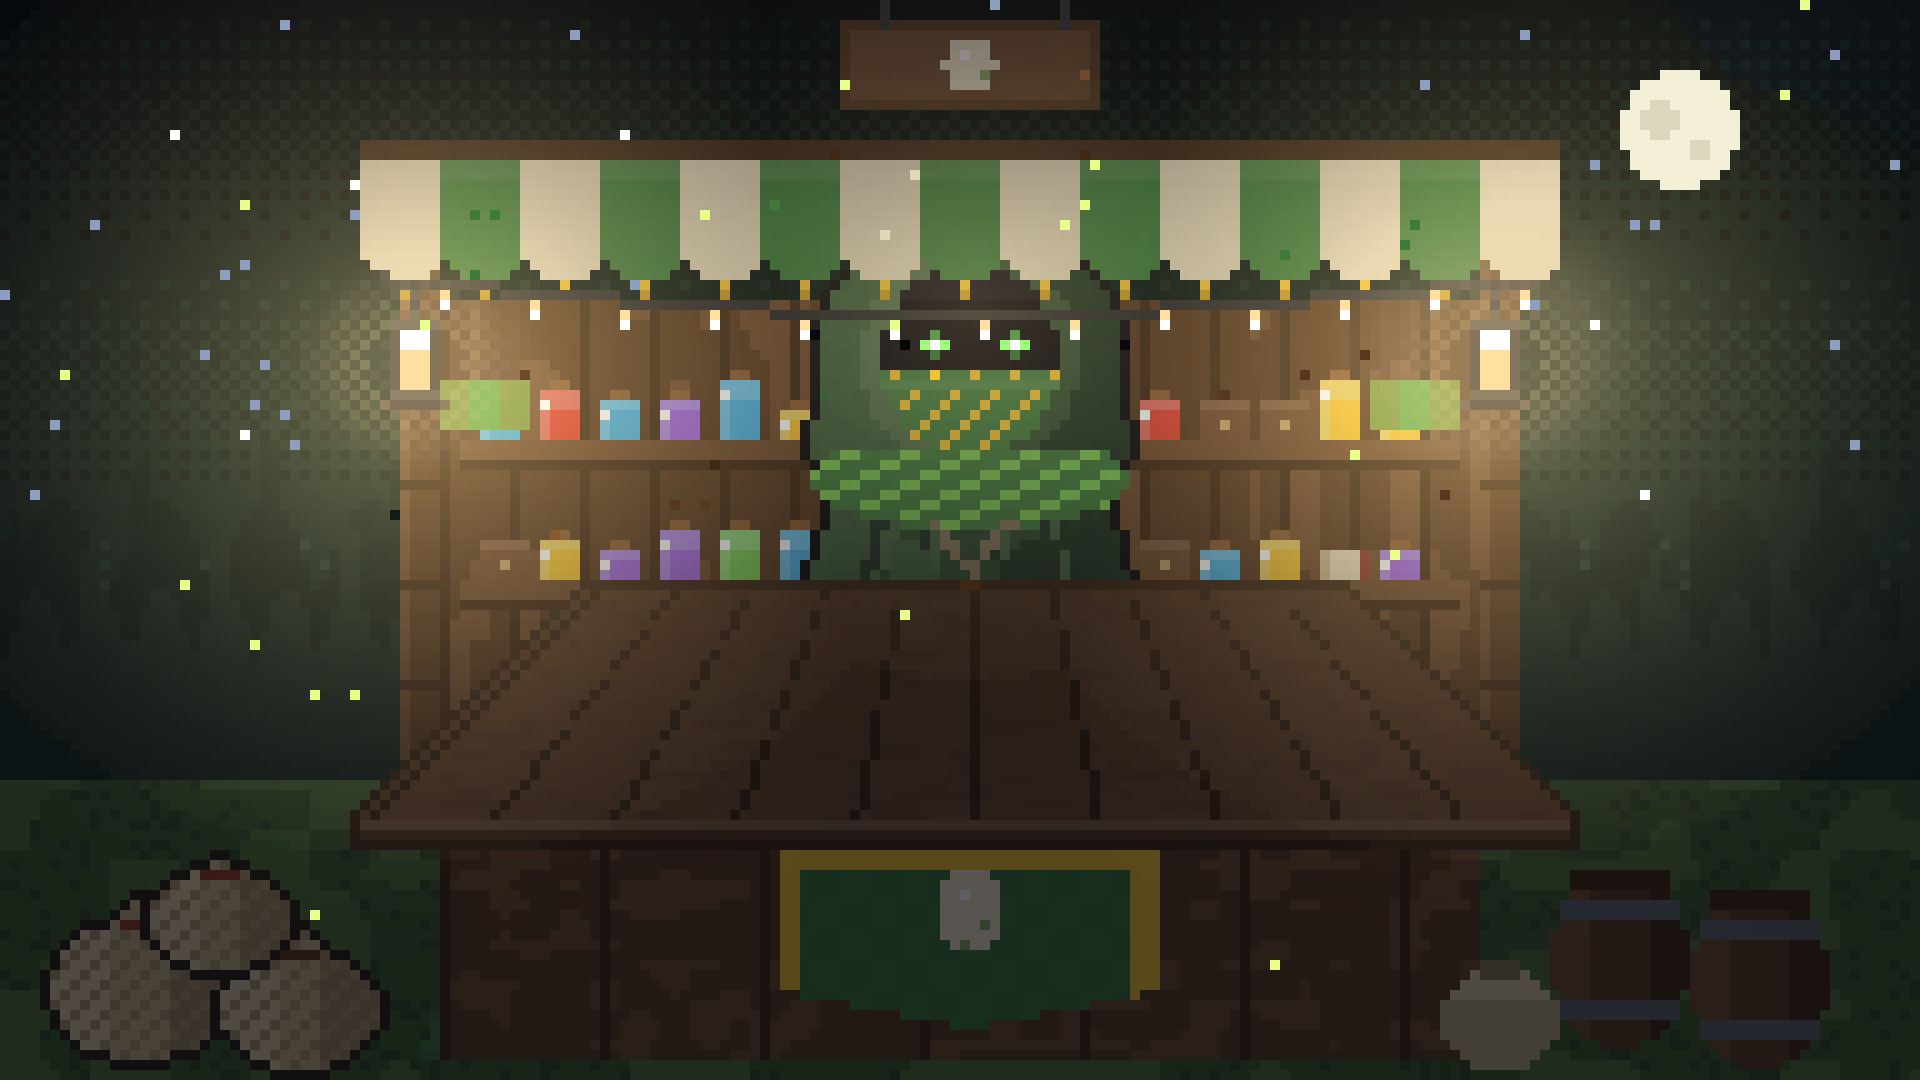
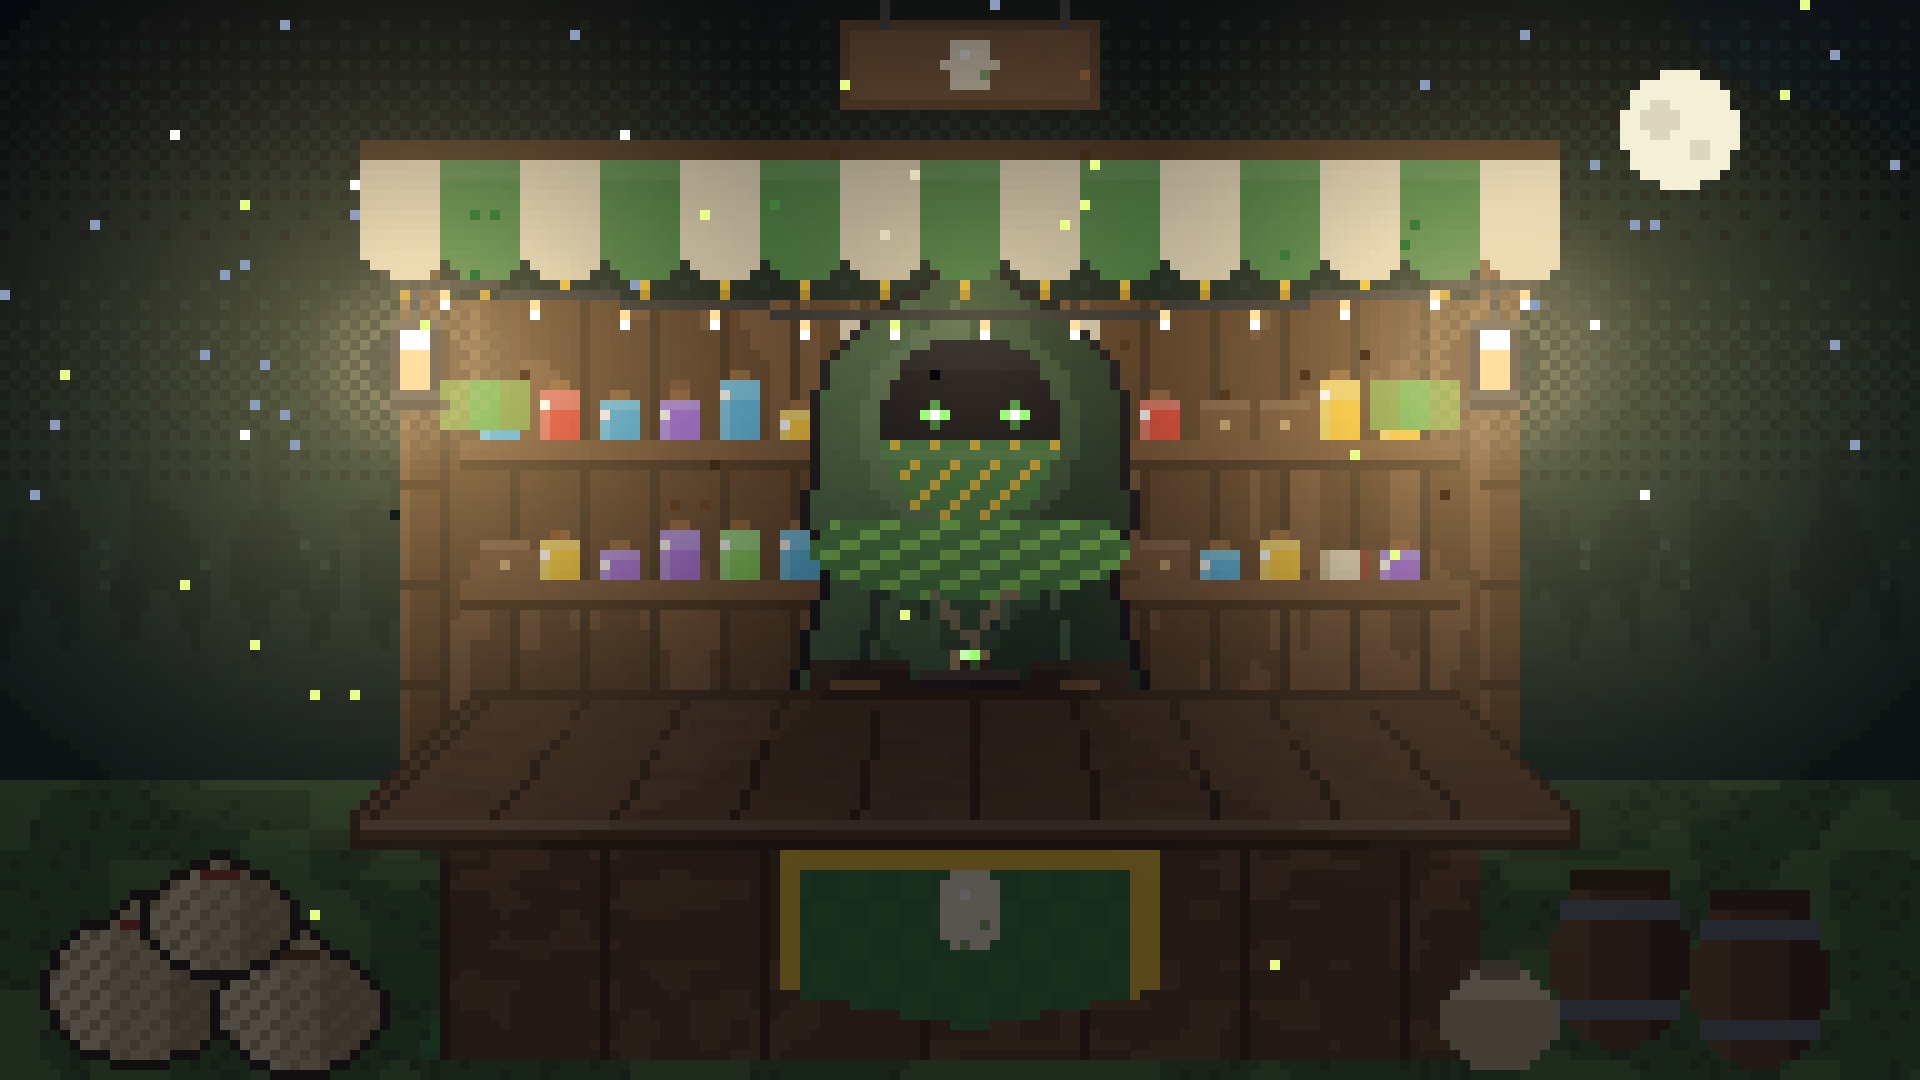
Marchands : plateau du comptoir moins profond, juste un peu plus que les caisses

Changed region(s): [[0.2812, 0.2444, 0.7188, 0.6417], [0.4062, 0.6111, 0.4375, 0.6417], [0.25, 0.5806, 0.2812, 0.6111]]

diff --git a/style.css b/style.css
@@ -699,7 +699,7 @@
   .dp-luck-pips span { width: 9px; height: 9px; border-radius: 50%; border: 1.5px solid rgba(255,255,255,0.7); }
   .dp-luck-pips span.on { background: #6fd36f; border-color: #6fd36f; }
   .dp-luck-hint { font-size: 11px; opacity: 0.75; }
-  .dp-merchant-table { position: absolute; left: 50%; bottom: 30%; transform: translateX(-50%); z-index: 2; display: flex; gap: calc(var(--u) * 0.6); padding: 0; flex-wrap: nowrap; justify-content: center; align-items: flex-end; width: 56%; }
+  .dp-merchant-table { position: absolute; left: 50%; bottom: 28%; transform: translateX(-50%); z-index: 2; display: flex; gap: calc(var(--u) * 0.6); padding: 0; flex-wrap: nowrap; justify-content: center; align-items: flex-end; width: 56%; }
   .dp-merchant-card { background: rgba(255,255,255,0.16); backdrop-filter: blur(5px); -webkit-backdrop-filter: blur(5px); border: 2px solid rgba(255,255,255,0.4); border-radius: 12px; padding: 14px; display: flex; flex-direction: column; align-items: center; gap: 6px; width: 168px; box-shadow: 0 6px 14px rgba(0,0,0,0.4); flex: none; }
   .dp-merchant-card { flex: none; width: calc(var(--u) * 10.2); padding: calc(var(--u) * 0.6) !important; border-radius: calc(var(--u) * 0.6) !important; gap: calc(var(--u) * 0.25) !important; }
   .dp-merchant-card .dp-egg-img { width: calc(var(--u) * 5.4); height: calc(var(--u) * 5.4); }
@@ -710,7 +710,7 @@
   .dp-merchant-card[onclick] { cursor: pointer; }
   .dp-merchant-card-selected { border-color: var(--accent); box-shadow: 0 0 0 3px var(--accent-soft), 0 6px 14px rgba(0,0,0,0.4); }
 
-  .dp-merchant-table-objects { justify-content: center; gap: calc(var(--u) * 0.6); bottom: 30%; }
+  .dp-merchant-table-objects { justify-content: center; gap: calc(var(--u) * 0.6); bottom: 28%; }
 
   .dp-crate-card { position: relative; width: calc(var(--u) * 8.6); height: calc(var(--u) * 7); flex: none; display: flex; align-items: flex-end; justify-content: center; }
   .dp-crate-card .dp-crate-img, .dp-crate-card .dp-object-icon { width: 100%; height: 100%; object-fit: contain; object-position: bottom; filter: drop-shadow(0 4px 8px rgba(0,0,0,0.5)); transition: transform .15s ease; }

diff --git a/index.html b/index.html
@@ -15,7 +15,7 @@
 <link rel="preconnect" href="https://fonts.googleapis.com">
 <link rel="preconnect" href="https://fonts.gstatic.com" crossorigin>
 <link href="https://fonts.googleapis.com/css2?family=Press+Start+2P&family=Public+Sans:wght@400;500;600;700;800&display=swap" rel="stylesheet">
-<link rel="stylesheet" href="style.css?v=68">
+<link rel="stylesheet" href="style.css?v=69">
 <link rel="stylesheet" href="https://cdn.jsdelivr.net/npm/katex@0.16.11/dist/katex.min.css">
 <script src="https://cdn.jsdelivr.net/npm/katex@0.16.11/dist/katex.min.js"></script>
 <script src="https://cdn.jsdelivr.net/npm/katex@0.16.11/dist/contrib/auto-render.min.js"></script>
@@ -44,16 +44,16 @@
 </div>
 <div id="app"></div>
 <div class="toast-stack" id="toastStack"></div>
-<script src="js/01-core.js?v=171"></script>
-<script src="js/02-ia.js?v=171"></script>
-<script src="js/03-podcast-methodo.js?v=171"></script>
-<script src="js/04-prepa.js?v=171"></script>
-<script src="js/05-data-dinopark.js?v=171"></script>
-<script src="js/06-pages.js?v=171"></script>
-<script src="js/07-editeur-outils.js?v=171"></script>
-<script src="js/08-fenetres.js?v=171"></script>
-<script src="js/09-app.js?v=171"></script>
-<script src="js/10-calendrier-aujourdhui.js?v=171"></script>
-<script src="js/11-routeur-demarrage.js?v=171"></script>
+<script src="js/01-core.js?v=172"></script>
+<script src="js/02-ia.js?v=172"></script>
+<script src="js/03-podcast-methodo.js?v=172"></script>
+<script src="js/04-prepa.js?v=172"></script>
+<script src="js/05-data-dinopark.js?v=172"></script>
+<script src="js/06-pages.js?v=172"></script>
+<script src="js/07-editeur-outils.js?v=172"></script>
+<script src="js/08-fenetres.js?v=172"></script>
+<script src="js/09-app.js?v=172"></script>
+<script src="js/10-calendrier-aujourdhui.js?v=172"></script>
+<script src="js/11-routeur-demarrage.js?v=172"></script>
 </body>
 </html>

diff --git a/js/01-core.js b/js/01-core.js
@@ -2,7 +2,7 @@
 // Studino — stockage, images, audio, schémas
 // Fichier chargé dans l'ordre par index.html : les fichiers partagent les mêmes variables globales.
 
-  var APP_VERSION = "13.9"; // +0.1 à chaque push sur GitHub, pour que l'utilisateur puisse vérifier qu'il a bien la dernière version
+  var APP_VERSION = "14.0"; // +0.1 à chaque push sur GitHub, pour que l'utilisateur puisse vérifier qu'il a bien la dernière version
   // Installation sur l'écran d'accueil : Chrome/Edge/Android proposent l'installation par un événement
   // qu'on garde pour le bouton des paramètres ; l'iPhone n'en a pas, on explique la marche à suivre.
   var installPromptEvent = null;

diff --git a/sw.js b/sw.js
@@ -2,7 +2,7 @@
 // Pages, scripts et styles : toujours la version en ligne d'abord (pour avoir les mises à jour),
 // la copie gardée seulement si le réseau ne répond pas. Images et sons : la copie gardée d'abord.
 // Les autres sites (IA Gemini, bibliothèques) ne passent pas par ici.
-var CACHE = "studino-v7"; // à changer quand les images changent : les anciennes copies en cache sont supprimées
+var CACHE = "studino-v8"; // à changer quand les images changent : les anciennes copies en cache sont supprimées
 
 self.addEventListener("install", function () { self.skipWaiting(); });
 self.addEventListener("activate", function (e) {
